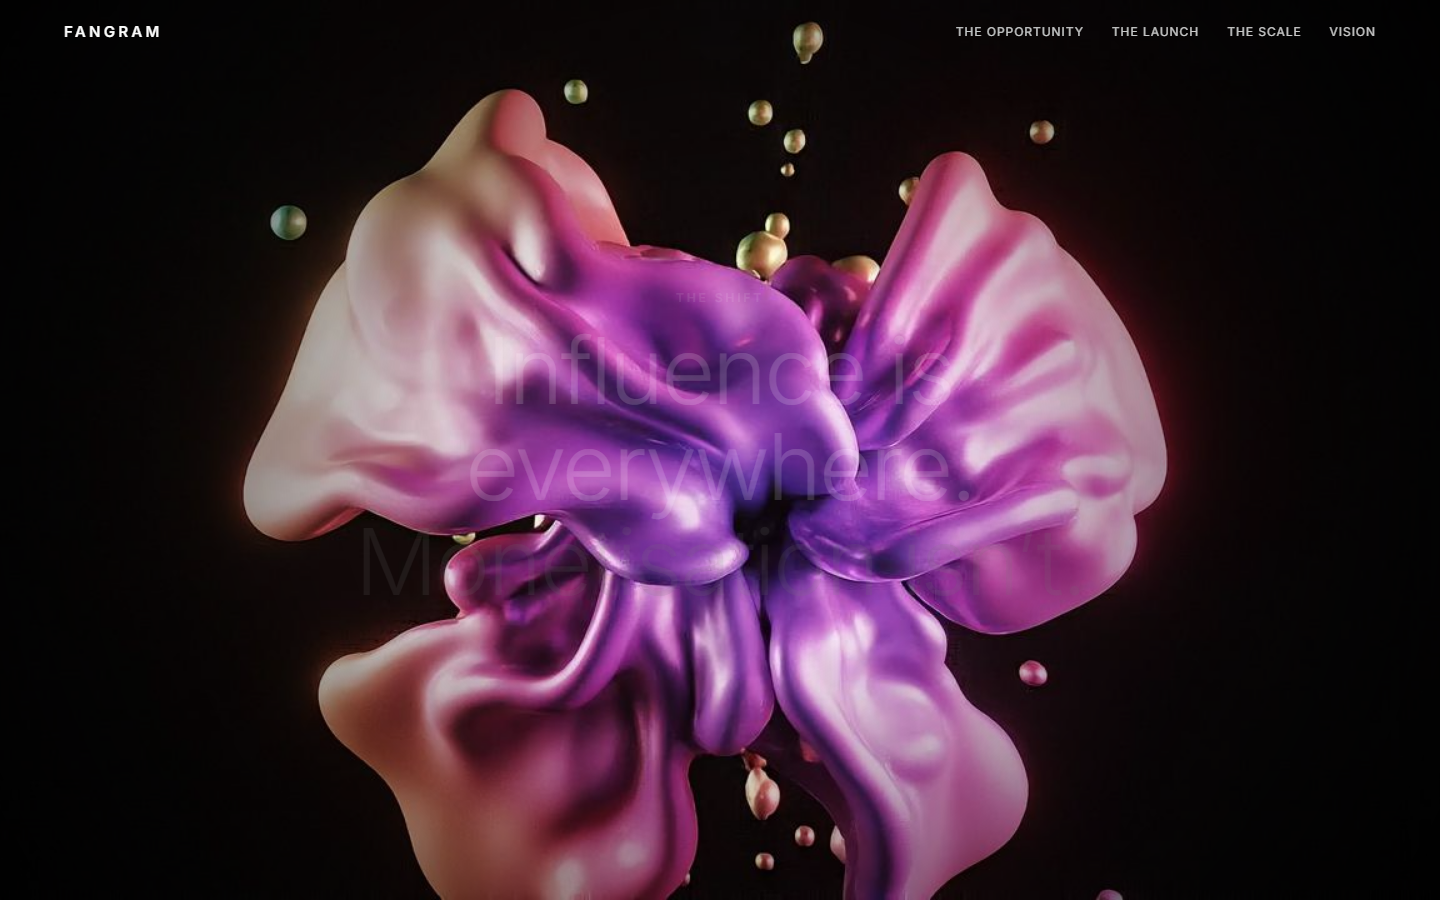
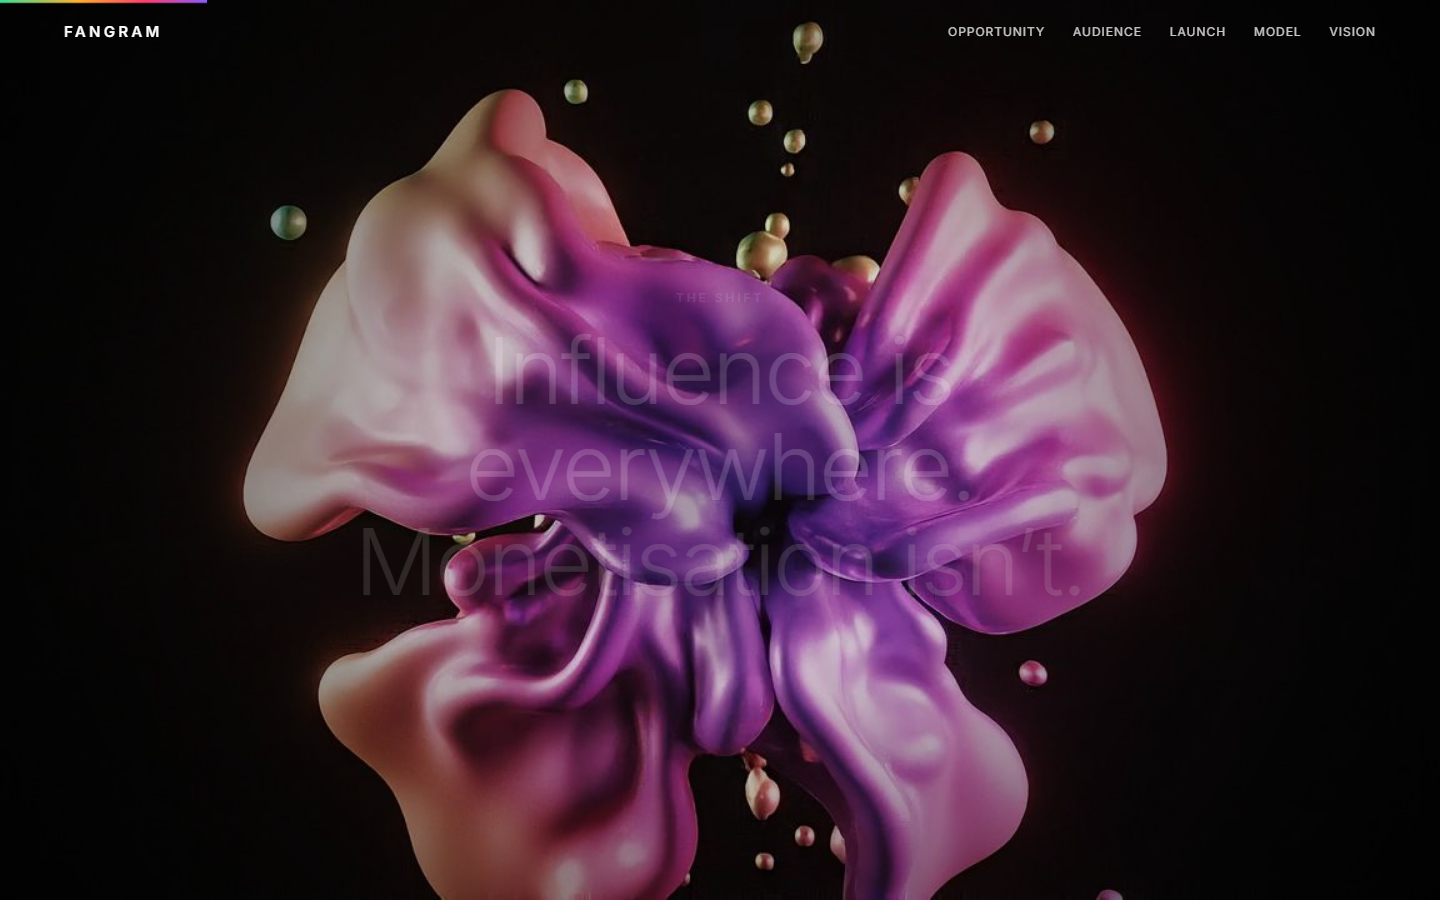
Readability: brighten muted/silver text, stronger scrub overlay scrim; broaden talent beyond athletes; add first-look/open-to-pivot note

diff --git a/src/App.css b/src/App.css
@@ -58,7 +58,7 @@
 .eyebrow { font-size: 12px; letter-spacing: 0.24em; text-transform: uppercase; color: var(--ash); font-weight: 500; margin-bottom: 26px; }
 .eyebrow.light { color: rgba(255,255,255,0.65); }
 .big { font-size: clamp(38px, 6.4vw, 94px); font-weight: 300; line-height: 1.04; letter-spacing: -0.025em; color: #fff; }
-.big .muted { color: var(--ash); }
+.big .muted { color: #cfcac2; }
 .lead { margin-top: 30px; font-size: clamp(17px, 1.5vw, 20px); line-height: 1.6; color: var(--smoke); font-weight: 400; max-width: 620px; }
 .lead.wide { max-width: 760px; }
 .lead b { color: #fff; font-weight: 500; }
@@ -69,10 +69,10 @@
 .seq { position: relative; height: 180vh; }
 .seq-sticky { position: sticky; top: 0; height: 100vh; overflow: hidden; background: #000; }
 .seq-canvas { position: absolute; inset: 0; width: 100%; height: 100%; }
-.seq-vign { position: absolute; inset: 0; pointer-events: none; background: radial-gradient(circle at 50% 50%, transparent 26%, rgba(0,0,0,0.45) 62%, rgba(0,0,0,0.86) 100%); }
+.seq-vign { position: absolute; inset: 0; pointer-events: none; background: radial-gradient(circle at 50% 50%, rgba(0,0,0,0.34) 0%, rgba(0,0,0,0.16) 28%, rgba(0,0,0,0.5) 64%, rgba(0,0,0,0.88) 100%); }
 .seq-overlay { position: absolute; inset: 0; display: flex; flex-direction: column; align-items: center; justify-content: center; text-align: center; padding: 0 20px; z-index: 2; }
-.seq-overlay .big { max-width: 16ch; text-shadow: 0 4px 50px rgba(0,0,0,0.6); }
-.seq-overlay .eyebrow { margin-bottom: 18px; }
+.seq-overlay .big { max-width: 16ch; text-shadow: 0 2px 36px rgba(0,0,0,0.9), 0 0 90px rgba(0,0,0,0.65); }
+.seq-overlay .eyebrow { margin-bottom: 18px; text-shadow: 0 2px 20px rgba(0,0,0,0.9); }
 
 .band.tight { padding-top: clamp(40px, 6vh, 80px); padding-bottom: clamp(40px, 6vh, 80px); }
 .big-lead { font-size: clamp(24px, 3.4vw, 44px); font-weight: 300; line-height: 1.3; color: var(--smoke); max-width: 22ch; letter-spacing: -0.01em; }
@@ -139,7 +139,8 @@
 .close .lead { margin-left: auto; margin-right: auto; }
 .close-cta { display: inline-block; margin-top: 44px; padding: 13px 30px; border: 1px solid var(--line); border-radius: 75px; font-size: 13px; letter-spacing: 0.04em; color: #fff; transition: border-color 0.35s, background 0.35s, color 0.35s, transform 0.35s; }
 .close-cta:hover { border-color: transparent; background: var(--gradient-flow); color: #000; transform: translateY(-2px); }
-.close-by { margin-top: 44px; display: flex; flex-direction: column; gap: 6px; font-size: 13px; color: var(--ash); letter-spacing: 0.04em; }
+.close-note { max-width: 48ch; margin: 30px auto 0; font-size: 13.5px; line-height: 1.65; color: var(--ash); font-style: italic; }
+.close-by { margin-top: 36px; display: flex; flex-direction: column; gap: 6px; font-size: 13px; color: var(--ash); letter-spacing: 0.04em; }
 .close-by strong { font-size: 22px; font-weight: 400; color: #fff; letter-spacing: 0; margin: 4px 0; }
 
 /* ---------- FOOTER ---------- */

diff --git a/src/App.jsx b/src/App.jsx
@@ -235,9 +235,9 @@ export default function App() {
         </div>
         <Reveal delay={0.1}>
           <p className="lead wide">
-            India has millions of creators and a rising tier of athletes with deeply engaged fans,
-            and almost no infrastructure to turn that into income. Cameo, Patreon and the rest barely
-            operate here. The shelf is empty. We take it before a funded copycat does.
+            India has millions of creators, athletes, musicians and public figures with deeply engaged
+            fans, and almost no infrastructure to turn that into income. Cameo, Patreon and the rest
+            barely operate here. The shelf is empty. We take it before a funded copycat does.
           </p>
         </Reveal>
       </section>
@@ -418,6 +418,10 @@ export default function App() {
             everywhere talent is rich and monetisation is thin. That’s the company I want to help build.
           </p>
           <a href="#top" className="close-cta">Take it from the top ↑</a>
+          <p className="close-note">
+            A first look, not a fixed plan. This is how I see it today, every line here is open to
+            pivot as we get more context. The thinking is mine; the direction is ours to shape.
+          </p>
           <div className="close-by">
             <span>A point of view by</span>
             <strong>Shaurya Pratap Singh</strong>

diff --git a/src/data.js b/src/data.js
@@ -10,9 +10,9 @@ export const STATS = [
 
 export const SEGMENTS = [
   {
-    tag: 'Creators',
-    lead: 'We start with athletes.',
-    body: 'India’s most under-monetised stars, with the most loyal fans, in the middle of an NIL moment. Then musicians, then digital creators. The people the platforms reward last.',
+    tag: 'Talent',
+    lead: 'Every kind of talent.',
+    body: 'Athletes, musicians, entertainers, digital creators, public figures, anyone with an audience and a story. We meet talent where monetisation is thinnest and fan love runs highest.',
     accent: 'var(--flow-green)',
   },
   {
@@ -63,7 +63,7 @@ export const FLYWHEEL = [
 ];
 
 export const GTM = [
-  { k: 'Supply-led wedge', v: 'Win a tight set of under-monetised but highly-engaged athletes first. Fans follow talent, not platforms.' },
+  { k: 'Supply-led wedge', v: 'Win a tight set of under-monetised but highly-engaged talent first, across every category. Fans follow talent, not platforms.' },
   { k: 'Prove repeat, not GMV', v: 'The first cohort is a live test. The metric that matters is repeat purchase, not vanity volume.' },
   { k: 'Spin the flywheel', v: 'Engaged fans attract brands; brand money and tools retain talent; talent brings more fans.' },
   { k: 'Then expand', v: 'India is the beachhead, not the ceiling. The proven engine travels to every thin-monetisation market.' },

diff --git a/src/index.css b/src/index.css
@@ -3,8 +3,8 @@
   --ink: #000000;
   --carbon: #0a0a0c;
   --paper: #ffffff;
-  --ash: #6d6d6d;
-  --smoke: #9a9a9a;
+  --ash: #8c877f;
+  --smoke: #b6b1a9;
   --line: rgba(255, 255, 255, 0.12);
   --line-dark: rgba(0, 0, 0, 0.14);
 